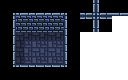
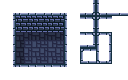
added auto-tiling, layering for visual clarity

diff --git a/evaluation/treasure_hunt_py/treasure_hunt/src/core.py b/evaluation/treasure_hunt_py/treasure_hunt/src/core.py
@@ -28,7 +28,12 @@ class GameMap:
             return None, None
         
         sprite_type = self.texture_config[map_class]["sprite"]
-        frame_name  = self.texture_config[map_class]["mapping"][key]
+        if key in "#":
+            frame_name  = self.auto_tiler(self.texture_maps[map_class], x, y, key)
+            # import pdb; pdb.set_trace()
+            print(frame_name)
+        else:
+            frame_name  = self.texture_config[map_class]["mapping"][key]
 
         return sprite_type, frame_name
 
@@ -114,3 +119,52 @@ class GameMap:
     #         state.player_dir = new_dir
 
     #     return move_success, self.current_room, state.player_pos
+    def auto_tiler(self, grid, x, y, key):
+        # Check surrounding tiles
+        top = grid[y-1][x] == key if y > 0 else True
+        bottom = grid[y+1][x] == key if y < len(grid)-1 else True
+        left = grid[y][x-1] == key if x > 0 else True
+        right = grid[y][x+1] == key if x < len(grid[0])-1 else True
+
+        # Check diagonals
+        top_left = grid[y-1][x-1] == key if y > 0 and x > 0 else True
+        top_right = grid[y-1][x+1] == key if y > 0 and x < len(grid[0])-1 else True
+        bottom_left = grid[y+1][x-1] == key if y < len(grid)-1 and x > 0 else True
+        bottom_right = grid[y+1][x+1] == key if y < len(grid)-1 and x < len(grid[0])-1 else True
+
+        if top and bottom and left and right and not bottom_right:
+            return "top_left"
+        elif top and bottom and left and right and not bottom_left:
+            return "top_right"
+        elif top and bottom and left and right and not top_right:
+            return "bottom_left"
+        elif top and bottom and left and right and not top_left:
+            return "bottom_right"
+        elif top and bottom and left and right:
+            return "center"
+        elif top and left and right and not bottom:
+            return "top"
+        elif bottom and left and right and not top:
+            return "bottom"
+        elif left and top and bottom and not right:
+            return "left"
+        elif right and top and bottom and not left:
+            return "right"
+        elif top and left and not right and not bottom:
+            return "outer_corner_top_left"
+        elif top and right and not left and not bottom:
+            return "outer_corner_top_right"
+        elif bottom and left and not right and not top:
+            return "outer_corner_bottom_left"
+        elif bottom and right and not left and not top:
+            return "outer_corner_bottom_right"
+        elif left:
+            return "horizontal_left"
+        elif right:
+            return "horizontal_right"
+        elif top:
+            return "vertical_top"
+        elif bottom:
+            return "vertical_bottom"
+        else:
+            return "center"  # or perhaps a default texture

diff --git a/evaluation/treasure_hunt_py/treasure_hunt/visualization/utils.py b/evaluation/treasure_hunt_py/treasure_hunt/visualization/utils.py
@@ -42,6 +42,7 @@ class MultiFramePygameImage:
         self.frames_rectangles = self.load_frames_rectangles(frames_path)
         self.extra_sprites = {}
         self.sprite_scaling = scaling
+        self.layer = False
     
     def add_extra_sprite(self, sprite_name, img_path):
         self.extra_sprites[sprite_name] = pygame.image.load(img_path).convert_alpha()
@@ -62,12 +63,21 @@ class MultiFramePygameImage:
             return self.extra_sprites[frame_name]
         return self.image.subsurface(self.frames_rectangles[frame_name])
     
-    def blit_on_surface_scaled(
+    def _blit_on_surface_scaled(
         self, surface, top_left_pixel_position, frame_name, new_size
         ):
+
         sprite_surface = self.sprite(frame_name)
         scaled_surface = pygame.transform.scale(sprite_surface, (new_size[0] * self.sprite_scaling, new_size[1] * self.sprite_scaling))
         surface.blit(scaled_surface, top_left_pixel_position)
+
+    def blit_on_surface_scaled(
+        self, surface, top_left_pixel_position, frame_name, new_size
+        ):
+
+        if self.layer:
+            self._blit_on_surface_scaled(surface, top_left_pixel_position, "base.png", new_size)
+        self._blit_on_surface_scaled(surface, top_left_pixel_position, frame_name, new_size)
 
     def load_frames_rectangles(self, json_path):
         with open(json_path, "r") as f:

diff --git a/evaluation/treasure_hunt_py/treasure_hunt/visualization/state_visualizer.py b/evaluation/treasure_hunt_py/treasure_hunt/visualization/state_visualizer.py
@@ -50,6 +50,8 @@ class StateVisualizer:
                 if "extra_sprites" in config[sprite_name]:
                     for extra_sprite in config[sprite_name]["extra_sprites"]:
                         self.MULTI_FRAME_SPRITES[sprite_name].add_extra_sprite(extra_sprite["name"] + '.png', os.path.join(GRAPHICS_DIR, extra_sprite["path"]))
+                if "layer" in config[sprite_name] and config[sprite_name]["layer"]:
+                    self.MULTI_FRAME_SPRITES[sprite_name].layer = True
 
     @classmethod
     def configure_defaults(cls, **kwargs):